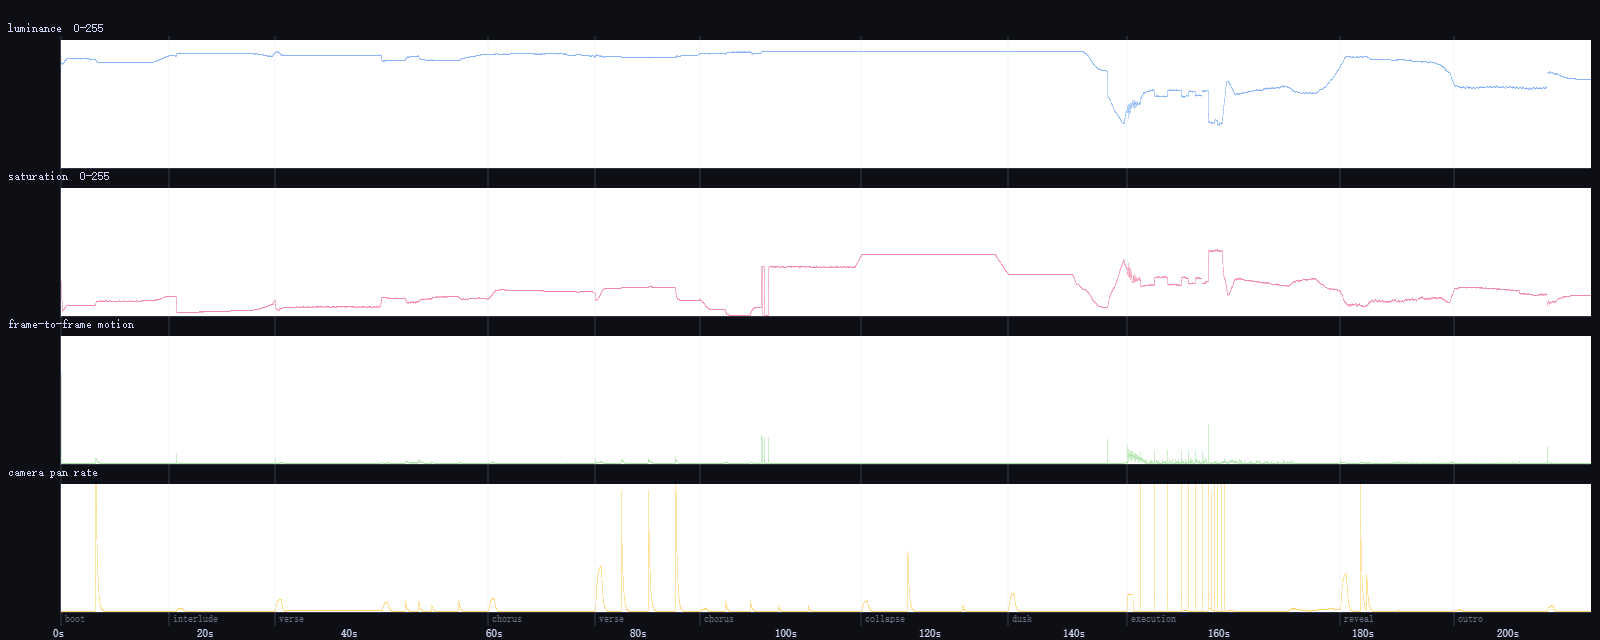
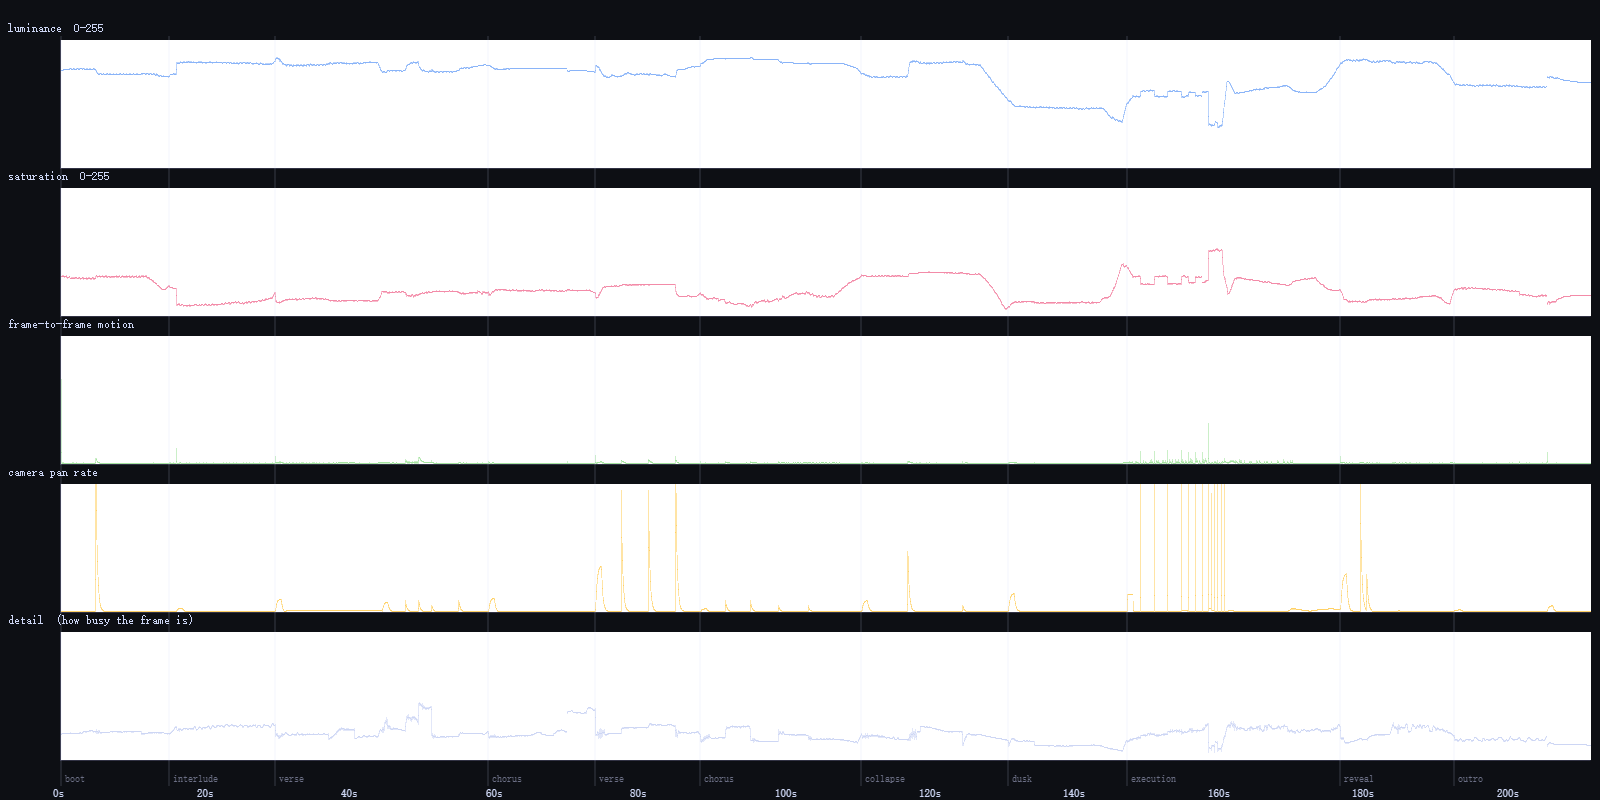
Take the standing scenery out of every frame
Every frame of the film carried the same horizon band — two rolling ridges, fourteen
houses with lit windows, five telephone poles trailing four catenary wires, a sun with a
ring around it, and a printed grid over the lot. None of it was in the lyric. It is what
made the picture read as busy rather than as drawn.

Gone: the poles and wires, the second ridge, the windows, the sun ring, the default grid
(it now appears only in the three shots where she is writing on the world), half the
confetti and snow, three quarters of the motes, two thirds of the console, and the sun in
the chorus, which was competing with the heart.

The detail metric added to chase this did not move, and that is worth recording: mean
gradient over a 120x68 readout is dominated by the big outlines, so a deleted ridge is
invisible to it. The claim here is the two sheets side by side, not a number. What the
sweep does still confirm is that nothing broke — no black frames, no throws, and motion
remains highest in the chant.

diff --git a/mv/scenes.js b/mv/scenes.js
@@ -214,57 +214,39 @@ const tint = (a, b, t) => {
   return '#' + A.map((v, i) => Math.round(lerp(v, B[i], clamp(t))).toString(16).padStart(2, '0')).join('');
 };
 const env0 = (F) => (F[0] + F[1] + F[2]) / 3;
-/* the page: a coloured sky (painted by mv.js), a flat ground, two tinted ridges,
-   a saturated sun, and a printed grid knocked out in white. */
+/* the page: a coloured sky (painted by mv.js), a flat ground, a town on the horizon, a
+   saturated sun, and — only where something is being written on the page — a printed grid.
+   The rolling ridge that used to sit under the town is gone: ground + ridge + houses +
+   horizon line were four silhouettes in the same 100-pixel band, in every wide shot of the
+   film, which is most of what made the bottom third read as busy. */
 function sheet(g, col, t, F, o) {
   o = o || {};
   if (col.ink) INK = col.ink;                      /* the page's ink, continuous across acts */
   const hy = o.hy || DH * 0.62;
-  const deep = tint(col.cool, '#000000', 0.22);
-  const pale = tint(col.cool, '#ffffff', 0.35);
   if (o.horizon !== false) {
     g.fillStyle = col.cool; g.fillRect(-80, hy, DW + 160, DH - hy + 80);
-    const ridge = (yb, amp, ph, tone) => {
-      g.fillStyle = tone; g.beginPath(); g.moveTo(-80, DH + 40);
-      for (let x = -80; x <= DW + 80; x += 22) {
-        const n = Math.sin(x * 0.004 + ph) * 0.6 + Math.sin(x * 0.011 + ph * 1.7) * 0.4;
-        g.lineTo(x, yb - (0.5 + n * 0.5) * amp);
+    if (o.town !== false) {
+      /* the town: the snowbound world of NEKODAY, sitting on the horizon line */
+      g.fillStyle = tint(col.cool, '#000000', 0.52);
+      for (let i = 0; i < 8; i++) {
+        const x = 90 + i * 200 + ((i * 37) % 46), w = 48 + ((i * 23) % 30), hh = 24 + ((i * 31) % 38);
+        g.beginPath();
+        g.moveTo(x, hy + 6); g.lineTo(x, hy - hh);
+        g.lineTo(x + w / 2, hy - hh - 14); g.lineTo(x + w, hy - hh); g.lineTo(x + w, hy + 6);
+        g.closePath(); g.fill();
       }
-      g.lineTo(DW + 80, DH + 40); g.closePath(); g.fill();
-    };
-    ridge(hy + 4, 132, 1.2, pale);
-    ridge(hy + 26, 74, 3.4, deep);
-    /* the town: the snowbound world of NEKODAY, sitting on the horizon line */
-    g.fillStyle = tint(col.cool, '#000000', 0.52);
-    for (let i = 0; i < 14; i++) {
-      const x = 40 + i * 112 + ((i * 37) % 40), w = 44 + ((i * 23) % 34), hh = 22 + ((i * 31) % 40);
-      g.beginPath();
-      g.moveTo(x, hy + 6); g.lineTo(x, hy - hh);
-      g.lineTo(x + w / 2, hy - hh - 14); g.lineTo(x + w, hy - hh); g.lineTo(x + w, hy + 6);
-      g.closePath(); g.fill();
-      if (i % 3 === 0) g.fillRect(x + w * 0.35, hy - hh * 0.6, 7, 7);          // one lit window
-    }
-    g.strokeStyle = tint(col.cool, '#000000', 0.62); g.lineWidth = 3;
-    for (let i = 0; i < 5; i++) {                                              // telephone poles and wires
-      const x = 160 + i * 320;
-      G.line(g, x, hy + 6, x, hy - 74); G.line(g, x - 16, hy - 60, x + 16, hy - 60);
-      if (i) G.poly(g, [[x - 320, hy - 60], [x - 160, hy - 40], [x, hy - 60]], false);
     }
     g.strokeStyle = tint(col.cool, '#000000', 0.45); g.lineWidth = 2.6;
     G.line(g, -80, hy + 4, DW + 80, hy + 4);
     if (o.sun !== false) {
       g.fillStyle = col.hot;
       g.beginPath(); g.arc(DW * 0.5, hy - 152, 96 + env0(F) * 34, 0, TAU); g.fill();
-      g.globalAlpha = 0.35; g.strokeStyle = col.hot; g.lineWidth = 3;
-      G.circle(g, DW * 0.5, hy - 152, 140 + env0(F) * 44);
-      g.globalAlpha = 1;
     }
   }
-  /* the printed grid and the board are knocked out in white over the colour */
-  if (o.grid !== 0) {
+  if (o.grid) {
     g.strokeStyle = '#ffffff'; g.lineWidth = 1; g.globalAlpha = 0.13;
-    for (let x = 0; x <= DW; x += 80) G.line(g, x, 0, x, DH);
-    for (let y = 0; y <= DH; y += 80) G.line(g, 0, y, DW, y);
+    for (let x = 0; x <= DW; x += 120) G.line(g, x, 0, x, DH);
+    for (let y = 0; y <= DH; y += 120) G.line(g, 0, y, DW, y);
     g.globalAlpha = 1;
   }
   if (o.board) {
@@ -285,7 +267,7 @@ function confetti(g, t, F, n, col) {
     window.__flakes = Array.from({ length: 240 }, () => ({ x: r(), y: r(), z: 0.3 + r() * 0.7, d: r() }));
   }
   const cols = [col.hot, GOLD, MINT, BLUE];
-  for (let i = 0; i < Math.min(n, window.__flakes.length); i++) {
+  for (let i = 0; i < Math.min(n * 0.5, window.__flakes.length); i++) {
     const f = window.__flakes[i];
     const y = ((f.y + t * 0.05 * f.z) % 1) * DH, x = (f.x + Math.sin(t * 1.1 + f.d * 9) * 0.03) * DW;
     g.fillStyle = cols[i % 4]; g.globalAlpha = (0.25 + f.z * 0.5) * (0.35 + F[6] * 0.7);
@@ -298,7 +280,7 @@ function confetti(g, t, F, n, col) {
 function snow(g, t, F, n, col) {
   if (!window.__flakes) confetti(g, 0, F, 0, col);
   g.fillStyle = col.ink;
-  for (let i = 0; i < Math.min(n, window.__flakes.length); i++) {
+  for (let i = 0; i < Math.min(n * 0.5, window.__flakes.length); i++) {
     const f = window.__flakes[i];
     const y = ((f.y + t * 0.03 * f.z) % 1) * DH, x = (f.x + Math.sin(t * 0.5 + f.d * 9) * 0.02) * DW;
     g.globalAlpha = (0.08 + f.z * 0.35) * (0.3 + F[6] * 0.7);
@@ -564,7 +546,7 @@ S.push({ id: 'current', from: 44.45, to: 59.22,
 S.push({ id: 'chorus1', from: 59.22, to: 74.04,
   frame: (k) => ({ z: 1.12 - k * 0.08, x: DW * (0.55 - k * 0.05), y: DH * (0.5 - k * 0.04) }),
   draw(g, k, F, t, col) {
-    sheet(g, col, t, F, { board: true, stones: 14 });
+    sheet(g, col, t, F, { board: true, stones: 14, sun: false });
     confetti(g, t, F, 60, col);
     g.strokeStyle = INK; g.fillStyle = INK;
     G.figure(g, DW * 0.6, GY, 1.35, t > 70 ? 'reach' : 'stand', t, col.hot, F[8]);
@@ -660,7 +642,7 @@ S.push({ id: 'switches', from: 88.58, to: 110.9,
     : t < 103.48 ? { z: 1.1, x: DW * 0.5, y: DH * 0.44 }
     : { z: 1.0, x: DW * 0.5, y: DH * 0.46 },
   draw(g, k, F, t, col) {
-    sheet(g, col, t, F, { grid: 1, board: false, hy: DH * 0.72, sun: false });
+    sheet(g, col, t, F, { board: false, hy: DH * 0.72, sun: false, town: false });
     const cx = DW * 0.5, cy = DH * 0.4;
     g.lineWidth = 3; g.strokeStyle = INK; g.fillStyle = INK;
     if (t < 92.01) {
@@ -818,7 +800,7 @@ S.push({ id: 'void', from: 131.22, to: 147.66,
 S.push({ id: 'chant', from: 147.66, to: 155.20, shake: 1, cut: true,
   frame: (k, t) => Math.floor((t - 147.66) / 1.88) % 2 ? { z: 1.12, x: DW * 0.5, y: DH * 0.38 } : { z: 1.0, x: DW * 0.5, y: DH * 0.44 },
   draw(g, k, F, t, col) {
-    sheet(g, col, t, F, { grid: 0, board: false, hy: DH * 0.72, sun: false });
+    sheet(g, col, t, F, { grid: 0, board: false, hy: DH * 0.72, sun: false, town: false });
     code(g, 10 + Math.min(7, Math.floor((t - 147.66) / 0.94)));
     g.fillStyle = INK; g.strokeStyle = col.rim;
     G.figure(g, DW * 0.83, GY, 1.2, t > 150.5 ? 'kneel' : 'stand', t, RED, F[8] * 0.5);
@@ -880,7 +862,7 @@ S.push({ id: 'give', from: 161.58, to: 169.82, shake: 1,
 S.push({ id: 'back', from: 169.82, to: 177.24,
   frame: (k) => ({ z: 1.08 - k * 0.08, x: DW * (0.5 + 0.04 * Math.sin(k * 4)), y: DH * (0.45 + k * 0.05) }),
   draw(g, k, F, t, col) {
-    sheet(g, col, t, F, { grid: 0, board: false, hy: DH * 0.66, sun: false });
+    sheet(g, col, t, F, { grid: 0, board: false, hy: DH * 0.66, sun: false, town: false });
     code(g, undefined, 18 - Math.round(k * 9));
     snow(g, t, F, 60, col);
     g.fillStyle = INK; g.strokeStyle = col.rim;

diff --git a/analysis/verify.js b/analysis/verify.js
@@ -11,6 +11,8 @@
  *   dif  mean |delta| vs the previous frame — the symptom of motion, including any motion
  *        nobody asked for. This is how "去掉无意义的抖动" gets checked instead of argued.
  *   pan  |camera x delta| + |camera y delta| — the cause-level readout of the same thing
+ *   det  mean absolute gradient of luma inside the frame — how busy the picture is. Added
+ *        for "整个画面太乱了": clutter stopped being an opinion once it had a number.
  *
  * Note on resolution: the analysis data is 21.3 ms per frame (46.9 fps), so at 60 fps some
  * frames differ only by interpolation. 60 fps is still the right sampling rate — it is the
@@ -56,11 +58,12 @@ function start() {
   const rc = document.createElement('canvas'); rc.width = RW; rc.height = RH;
   const rg = rc.getContext('2d', { willReadFrequently: true });
   const prev = new Float32Array(RW * RH * 3);
+  const luma = new Float32Array(RW * RH);
   const secs = Math.ceil(DUR);
 
   S = {
     N, DUR, n: 0, done: false, t0: performance.now(), flags: [],
-    lum: new Uint8Array(N), sat: new Uint8Array(N), dif: new Uint8Array(N),
+    lum: new Uint8Array(N), sat: new Uint8Array(N), dif: new Uint8Array(N), det: new Uint8Array(N),
     pdx: new Uint8Array(N), pdy: new Uint8Array(N), cz: new Float32Array(N),
     sheetA: sheet(Math.min(14, Math.ceil(106 / COLS))), sheetB: sheet(14)
   };
@@ -89,30 +92,44 @@ function start() {
     rg.drawImage(stage, ox, oy, dw, dh, 0, 0, RW, RH);
     const im = rg.getImageData(0, 0, RW, RH).data;
     let lum = 0, sat = 0, dif = 0;
-    for (let i = 0, p = 0; i < im.length; i += 4, p += 3) {
+    for (let i = 0, p = 0, k = 0; i < im.length; i += 4, p += 3, k++) {
       const r = im[i], g2 = im[i + 1], b = im[i + 2];
       const mx = Math.max(r, g2, b), mn = Math.min(r, g2, b);
       lum += mx;
       sat += mx ? (mx - mn) / mx * 255 : 0;
       dif += Math.abs(r - prev[p]) + Math.abs(g2 - prev[p + 1]) + Math.abs(b - prev[p + 2]);
       prev[p] = r; prev[p + 1] = g2; prev[p + 2] = b;
+      luma[k] = r * 0.299 + g2 * 0.587 + b * 0.114;
+    }
+    let grad = 0, gn = 0;
+    for (let y = 0; y < RH; y++) {
+      for (let x = 0; x < RW - 1; x++) { grad += Math.abs(luma[y * RW + x + 1] - luma[y * RW + x]); gn++; }
+    }
+    for (let y = 0; y < RH - 1; y++) {
+      for (let x = 0; x < RW; x++) { grad += Math.abs(luma[(y + 1) * RW + x] - luma[y * RW + x]); gn++; }
     }
     const npx = im.length / 4;
     S.lum[f] = Math.round(lum / npx);
     S.sat[f] = Math.round(sat / npx);
     S.dif[f] = Math.min(255, Math.round(dif / npx / 3));
+    S.det[f] = Math.min(255, Math.round(grad / gn * 8));
     const k = Math.floor(t);
     if (f % FPS === 0 && k < secs) cell(k < 106 ? S.sheetA : S.sheetB, k < 106 ? k : k - 106, k);
   }
 
   let f = 0;
   const ch = new MessageChannel();
+  /* A message port per frame keeps the sweep fast but can starve every other task source:
+     once the frames got cheap enough to draw in ~2 ms, the page stopped answering the
+     console. Every YIELD frames, hand off through a timer so the tab stays usable. */
+  const YIELD = 600;
   ch.port1.onmessage = () => {
     try { frame(f); }
     catch (e) { S.flags.push([f, 'threw', e.message]); }
     f++; S.n = f;
     if (f >= S.N) { S.done = true; return; }
-    ch.port2.postMessage(0);            // a task per frame, so the console stays usable
+    if (f % YIELD === 0) setTimeout(() => ch.port2.postMessage(0), 0);
+    else ch.port2.postMessage(0);
   };
   ch.port2.postMessage(0);
   return { frames: N, fps: FPS, seconds: +DUR.toFixed(2) };
@@ -136,16 +153,17 @@ function stats() {
   flags.sort((a, b) => a[0] - b[0]);
   const perAct = ACTS.map((a) => {
     const f0 = Math.round(a.from * FPS), f1 = Math.min(N, Math.round(a.to * FPS));
-    let dm = 0, dp = 0, dmax = 0, pmax = 0, n = 0, lmin = 255, smin = 255;
+    let dm = 0, dp = 0, dt = 0, dmax = 0, pmax = 0, n = 0, lmin = 255, smin = 255;
     const ds = [];
     for (let f = f0; f < f1; f++) {
-      ds.push(S.dif[f]); dm += S.dif[f]; dp += S.pdx[f] + S.pdy[f];
+      ds.push(S.dif[f]); dm += S.dif[f]; dp += S.pdx[f] + S.pdy[f]; dt += S.det[f];
       dmax = Math.max(dmax, S.dif[f]); pmax = Math.max(pmax, S.pdx[f] + S.pdy[f]);
       lmin = Math.min(lmin, S.lum[f]); smin = Math.min(smin, S.sat[f]); n++;
     }
     ds.sort((x, y) => x - y);
     return { act: a.tag, from: a.from, frames: n,
              motion: +(dm / n).toFixed(1), motionP95: ds[Math.floor(n * 0.95)], motionMax: dmax,
+             detail: +(dt / n).toFixed(1),
              pan: +(dp / n).toFixed(1), panMax: pmax, minLum: lmin, minSat: smin };
   });
   return { flags, perAct };
@@ -160,7 +178,8 @@ function chart(W, H) {
     ['luminance  0-255', (f) => S.lum[f], '#8ab4f8'],
     ['saturation  0-255', (f) => S.sat[f], '#f38ba8'],
     ['frame-to-frame motion', (f) => S.dif[f], '#a6e3a1'],
-    ['camera pan rate', (f) => Math.min(255, S.pdx[f] + S.pdy[f]), '#ffd166']
+    ['camera pan rate', (f) => Math.min(255, S.pdx[f] + S.pdy[f]), '#ffd166'],
+    ['detail  (how busy the frame is)', (f) => S.det[f], '#cdd6f4']
   ];
   const PW = W - 70, HH = 128;
   strips.forEach((s, si) => {
@@ -207,7 +226,7 @@ async function post(name, canvas, type, q) {
 async function report() {
   const { flags, perAct } = stats();
   const sizes = {
-    'verify-60fps.png': await post('verify-60fps.png', chart(1600, 640), 'image/png'),
+    'verify-60fps.png': await post('verify-60fps.png', chart(1600, 800), 'image/png'),
     'sheet-a.jpg': await post('sheet-a.jpg', S.sheetA, 'image/jpeg', 0.86),
     'sheet-b.jpg': await post('sheet-b.jpg', S.sheetB, 'image/jpeg', 0.86)
   };
@@ -219,8 +238,7 @@ async function report() {
    (attack noise: the kit, the consonants, the chiptune edge), the median spectral flatness
    (tonal vs noisy), the median centroid, and how much of the span carries a pitch at all.
    Asked because the band's own description — electronica, classical, game music, YMO —
-   predicts two contrasting textures, and the picture should not pretend it is one thing. */
-function timbre(step) {
+   predicts two contrasting textures, and the picture should not pretend it is one thing. */function timbre(step) {
   const S = window.SCORE, M = S.meta, HOP = M.hopMs / 1000;
   const dec = (s) => { const x = atob(s), u = new Uint8Array(x.length); for (let i = 0; i < x.length; i++) u[i] = x.charCodeAt(i); return u; };
   const B = [];

diff --git a/mv/mv.js b/mv/mv.js
@@ -268,10 +268,12 @@ function renderScene(g, idx, t, cam) {
   g.setTransform(1, 0, 0, 1, 0, 0);
 }
 
-/* motes: dust and petals that drift up rather than burst */
+/* motes: dust and petals that drift up rather than burst. There used to be ninety of them
+   over the top of every shot, plus a confetti layer — two particle systems competing for
+   nothing. */
 const motes = [];
 const rnd = ((s) => () => (s = (s * 1664525 + 1013904223) >>> 0) / 4294967296)(7);
-for (let i = 0; i < 90; i++) motes.push({ x: rnd(), y: rnd(), z: 0.3 + rnd() * 0.7, ph: rnd() * 7, sp: 0.2 + rnd() * 0.6 });
+for (let i = 0; i < 22; i++) motes.push({ x: rnd(), y: rnd(), z: 0.3 + rnd() * 0.7, ph: rnd() * 7, sp: 0.2 + rnd() * 0.6 });
 function drawMotes(t) {
   bx.setTransform(1, 0, 0, 1, 0, 0);
   for (const m of motes) {
@@ -309,7 +311,7 @@ function composite(t, reduced) {
     gx.clearRect(0, 0, glow.width, glow.height);
     gx.drawImage(buf, 0, 0, glow.width, glow.height);
     cx.globalCompositeOperation = 'lighter';
-    cx.globalAlpha = 0.1 + env * 0.2;
+    cx.globalAlpha = 0.07 + env * 0.13;
     cx.drawImage(glow, 0, 0, W, HH);
     cx.globalAlpha = 1;
     cx.globalCompositeOperation = 'source-over';
@@ -320,7 +322,7 @@ function composite(t, reduced) {
      analysis says this song alternates between a pitched, low-flatness body and bright,
      noise-like passages (flatness 18-25 under the verses, 43-73 at the chorus entries and
      the outro's chip arpeggio), so the film's own grain swells with the noise floor. */
-  cx.globalAlpha = 0.055 + raw[14] * 0.16;
+  cx.globalAlpha = 0.04 + raw[14] * 0.1;
   cx.translate(Math.floor(rnd() * 128) - 64, Math.floor(rnd() * 128) - 64);
   cx.fillStyle = grainPat; cx.fillRect(-64, -64, W + 128, HH + 128);
   cx.restore();
@@ -381,7 +383,7 @@ function logLine(at, level, msg, big) {
   const lv = document.createElement('span'); lv.className = 'lv'; lv.textContent = ' ' + level + ' ';
   row.append(ts, lv, document.createTextNode(' ' + msg));
   ui.log.prepend(row);
-  while (ui.log.children.length > 5) ui.log.lastChild.remove();
+  while (ui.log.children.length > 3) ui.log.lastChild.remove();
   requestAnimationFrame(() => row.classList.add('on'));
 }
 let lastLogT = -1e9, lastSlot = -1;

diff --git a/README.md b/README.md
@@ -146,6 +146,23 @@ DISHEARTENED 处错放了 ILLEGAL ARGUMENTS 对话框（早 6.3 秒）、INITIAL
 需要说清楚的是：DSP 只能把材料分成"有调 / 噪声性"，**不能凭频谱报出乐器名字**。
 上面关于编制的说法来自乐队自己的公开资料，不是我从音频里"听"出来的。
 
+## 减法：一帧里同时有多少东西
+
+你说过"整个画面太乱了"。数一下之前**每一帧**都在同屏的东西：天空渐变 + 地平线辉光、
+地面平涂、**两层**山脊、14 栋房子（其中 5 栋带亮窗）、**5 根电线杆加 4 段电线**、太阳盘加一个太阳环、
+白色印刷网格、右上角棋盘、彩纸/雪（最多 240 片）、浮尘 90 粒、镜头自己的道具、剪影、
+柔光、颗粒、暗角、黑边，再加 DOM 上的印刷边框、幕号、双语字幕和左下 5 行运行日志。
+
+这一轮删掉的是：电线杆与电线、第二层山脊、亮窗、太阳环、默认打开的印刷网格（现在只有
+"她在世界上写字"的那三幕有）、彩纸与雪减半、浮尘 90→22、日志 5→3、柔光与颗粒各降一档，
+以及副歌里那颗和心抢位置的大太阳。
+
+一句诚实的话：我给校验台加了个"细节密度"（画面平均梯度）想量化这件事，**结果它几乎没动**
+（各幕 54/65/57/62/60/46/50/29/56/54/37，与删之前基本一致）。原因是这个量被大块轮廓主导——
+太阳盘的边、地平线、人形、道具——而山脊和房子在 120×68 的读数窗口里只值零点几个像素。
+所以"乱"这件事这次是靠**看**判断的（对比两版 `sheet-a.jpg`），不是靠指标；
+指标只用来保证删完没有黑帧、没有异常、运动量仍然只在诵唱段（1.4，仍是全片最高）。
+
 ## 关于参考与原创
 
 按你的要求我去看了别人做的东西（B 站的个人向手书/MV、osu! 故事板、各类解读文章）。
